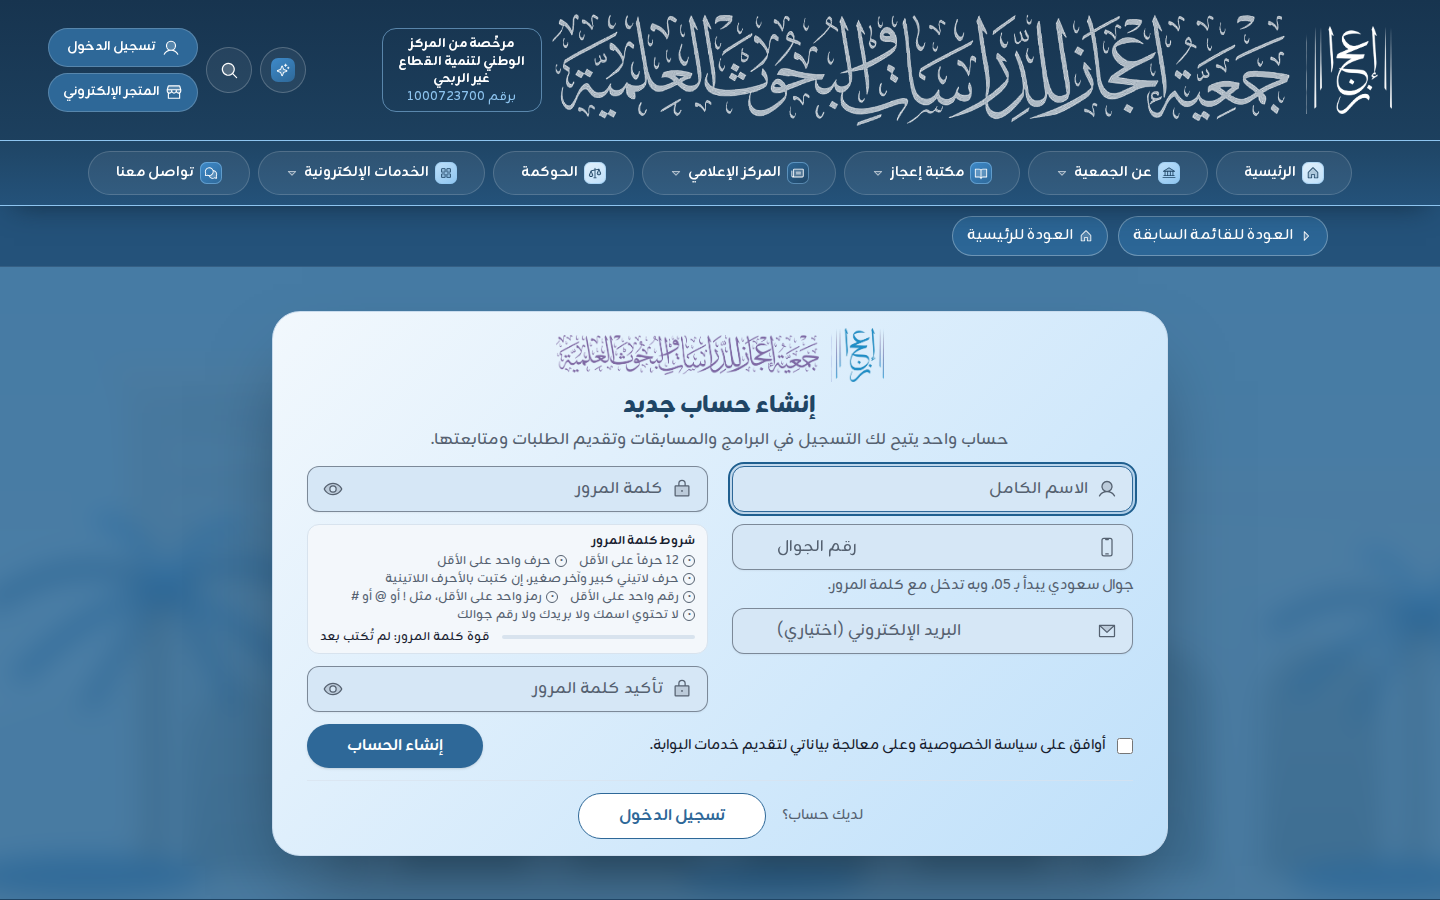
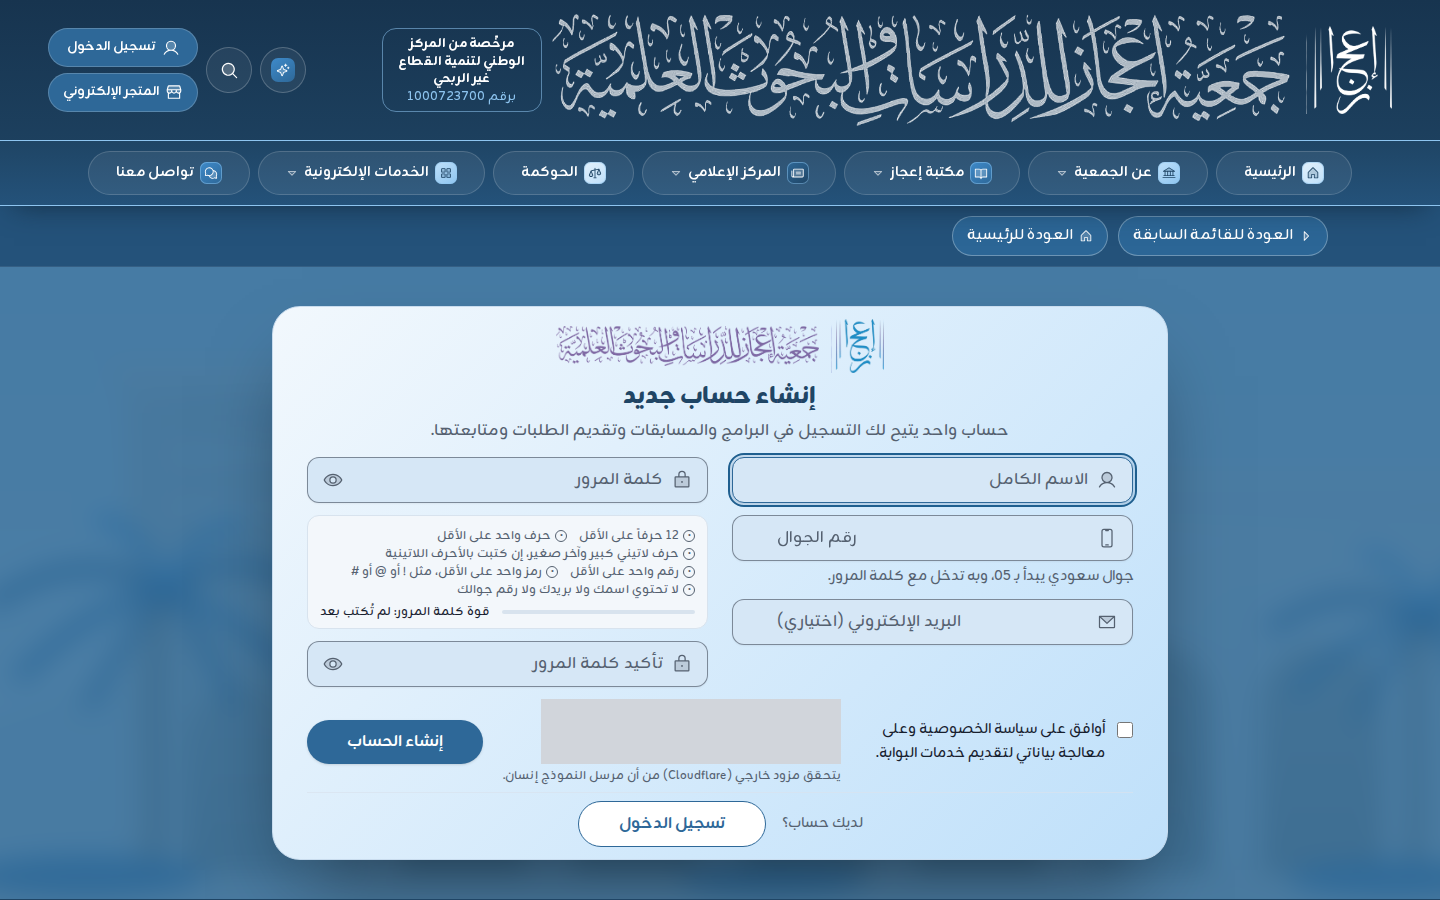
fix(register): measure with the Turnstile widget, kept in the consent and button row
Supervisor review of #189: the bot challenge is always on in production
and added about 90 to 100px. On desktop it now sits in one row with the
privacy consent and the create button. The browser test inserts a stand-
in of its size (300x65 and its notice line) before measuring: the
create button is fully visible in a 1366x657 laptop window, and the
whole card fits at 1366x768. To make room, the rules heading is for
screen readers only in the compact rules (it still names the list), the
intro is for screen readers only in short desktop windows (720px and
under), and the auth card padding is a little tighter. The password
field is also described by the leak note. Login shot at 1366.

Changed region(s): [[0.1875, 0.5911, 0.8125, 0.9644], [0.1875, 0.3422, 0.8125, 0.7156], [0.2188, 0.5289, 0.25, 0.56]]

diff --git a/resources/js/password-rules.js b/resources/js/password-rules.js
@@ -65,7 +65,11 @@ onPage((signal) => {
             return;
         }
 
-        input.setAttribute('aria-describedby', `${input.getAttribute('aria-describedby') ?? ''} ${box.dataset.for}-rules-heading`.trim());
+        // والعنوان وتنبيه التسريب معاً (المشرف على طلب الدمج 189، المنخفضة 3)، ولا يتكرر المعرّف إن أعيدت التهيئة
+        const described = new Set((input.getAttribute('aria-describedby') ?? '').split(/s+/).filter(Boolean));
+        described.add(`${box.dataset.for}-rules-heading`);
+        described.add(`${box.dataset.for}-rules-leaked`);
+        input.setAttribute('aria-describedby', [...described].join(' '));
         const refresh = () => update(box, input);
         input.addEventListener('input', refresh, { signal });
         ['field-name', 'field-email', 'field-phone'].forEach((id) => document.getElementById(id)?.addEventListener('input', refresh, { signal }));

diff --git a/resources/views/components/password-rules.blade.php b/resources/views/components/password-rules.blade.php
@@ -10,14 +10,14 @@
 @endphp
 
 {{-- compact (صفحة التسجيل على الحاسوب، فتدخل بطاقتها كاملة في 1366×768 — المدير عبر المشرف، 5 نوفمبر 2026): الشروط متجاورة بخط أصغر،
-     والمؤشر ونص القوة في سطر واحد، وتنبيه التسريب لقارئ الشاشة ويظهر متى كان التركيز في عمود كلمة المرور (concept.css). النصوص كلها
+     والعنوان لقارئ الشاشة يسمّي القائمة (المشرف على طلب الدمج 189)، والمؤشر ونص القوة في سطر واحد، وتنبيه التسريب لقارئ الشاشة ويظهر متى كان التركيز في عمود كلمة المرور (concept.css). النصوص كلها
      كما هي، فلا ينقص قارئَ الشاشة شيء. وعلى الجوال كما هي --}}
 <div data-password-rules data-for="{{ $for }}" @if ($compact) data-compact @endif
     data-met="{{ __('account.password_rules.met') }}" data-unmet="{{ __('account.password_rules.unmet') }}"
     data-strength-label="{{ __('account.password_rules.strength') }}"
     @foreach (['empty', 'weak', 'fair', 'strong'] as $level) data-level-{{ $level }}="{{ __('account.password_rules.levels.'.$level) }}" @endforeach
     {{ $attributes->merge(['class' => 'rounded-xl border border-line bg-surface p-4 text-sm'.($compact ? ' lg:px-3 lg:py-2 lg:text-xs' : '')]) }}>
-    <p class="font-semibold text-ink" id="{{ $for }}-rules-heading">{{ __('account.password_rules.heading') }}</p>
+    <p @class(['font-semibold text-ink', 'lg:sr-only' => $compact]) id="{{ $for }}-rules-heading">{{ __('account.password_rules.heading') }}</p>
 
     <ul @class(['mt-2 space-y-1.5', 'lg:mt-1 lg:flex lg:flex-wrap lg:gap-x-3 lg:gap-y-0.5 lg:space-y-0' => $compact]) aria-labelledby="{{ $for }}-rules-heading">
         @foreach ($rules as $rule)
@@ -37,5 +37,5 @@
             {{ __('account.password_rules.strength', ['level' => __('account.password_rules.levels.empty')]) }}
         </p>
     </div>
-    <p @class(['mt-1 text-muted', 'lg:mt-0.5' => $compact]) data-leaked>{{ __('account.password_rules.leaked') }}</p>
+    <p id="{{ $for }}-rules-leaked" @class(['mt-1 text-muted', 'lg:mt-0.5' => $compact]) data-leaked>{{ __('account.password_rules.leaked') }}</p>
 </div>

diff --git a/resources/views/auth/register.blade.php b/resources/views/auth/register.blade.php
@@ -30,10 +30,9 @@
             </div>
         </div>
 
-        <x-bot-challenge action="register" />
-
-        {{-- على الحاسوب الموافقة وزر الإنشاء في صف واحد، فتدخل البطاقة كاملة تحت الرأس في 1366×768 (المدير عبر المشرف، 5 نوفمبر 2026) --}}
-        <div class="space-y-4 lg:flex lg:items-center lg:gap-6 lg:space-y-0">
+        {{-- على الحاسوب الموافقة والتحدي (Turnstile، ظاهر في الإنتاج) وزر الإنشاء في صف واحد، فتدخل البطاقة كاملة تحت الرأس في 1366×768
+             والزر في نافذة 1366×657 (المدير والمشرف، 5 و6 نوفمبر 2026 — tests/browser/register-fit.spec.mjs) --}}
+        <div class="space-y-4 lg:flex lg:items-center lg:gap-5 lg:space-y-0" data-register-actions>
             <div class="space-y-1.5 lg:flex-1">
                 <label class="flex items-start gap-3 text-sm leading-6 text-ink">
                     <input type="checkbox" name="privacy" value="1" @checked(old('privacy')) required
@@ -51,6 +50,10 @@
                 @enderror
             </div>
 
+            <div class="space-y-1 lg:shrink-0" data-bot-challenge-slot>
+                <x-bot-challenge action="register" />
+            </div>
+
             <x-button class="w-full lg:w-auto lg:shrink-0 lg:px-10">{{ __('account.register.submit') }}</x-button>
         </div>
     </form>
@@ -58,7 +61,7 @@
     <x-or-divider class="my-5 lg:hidden" />
 
     {{-- على الحاسوب «لديك حساب؟» وزر الدخول في سطر واحد، بخط فاصل بلا «أو» --}}
-    <div class="lg:mt-3 lg:flex lg:items-center lg:justify-center lg:gap-4 lg:border-t lg:border-line/70 lg:pt-3">
+    <div class="lg:mt-2 lg:flex lg:items-center lg:justify-center lg:gap-4 lg:border-t lg:border-line/70 lg:pt-2">
         <p class="mb-3 text-center text-sm text-muted lg:mb-0">{{ __('account.register.have_account') }}</p>
         <x-button variant="outline" :href="route('login')" class="w-full lg:w-auto lg:px-10">{{ __('account.login.title') }}</x-button>
     </div>

diff --git a/resources/views/components/layouts/auth.blade.php b/resources/views/components/layouts/auth.blade.php
@@ -9,19 +9,20 @@
 @props(['title', 'heading' => null, 'intro' => null, 'image' => true, 'noindex' => true, 'wide' => false])
 
 <x-layouts.app :title="$title" :noindex="$noindex">
-    <div class="auth-stage relative isolate overflow-hidden py-12 sm:py-17 lg:py-3">
+    <div class="auth-stage relative isolate overflow-hidden py-12 sm:py-17 lg:py-2">
         <img src="{{ asset('images/placeholders/architecture.svg') }}" alt="" aria-hidden="true" width="1440" height="960"
             class="absolute inset-0 -z-10 size-full scale-110 object-cover blur-md">
         <div class="absolute inset-0 -z-10 bg-primary/85" aria-hidden="true"></div>
 
         <div @class(['relative mx-auto w-full max-w-[28.75rem] px-4', 'lg:max-w-[58rem]' => $wide, 'lg:max-w-[32rem]' => ! $wide])>
             <div class="form-sky overflow-hidden rounded-[1.75rem] text-ink shadow-[0_40px_80px_-30px_rgba(0,0,0,0.55)]" data-auth-card>
-                <div class="px-6 pt-9 pb-8 sm:px-8.5 lg:pt-4 lg:pb-4">
+                <div class="px-6 pt-9 pb-8 sm:px-8.5 lg:pt-3 lg:pb-3">
                     <div class="flex flex-col items-center text-center">
                         <x-brand :link="false" class="justify-center" data-auth-logo />
                         <h1 class="mt-4 text-[2.125rem] font-black text-primary-dark lg:mt-2 lg:text-2xl">{{ $heading ?? $title }}</h1>
                         @if ($intro)
-                            <p class="mt-2 leading-7 text-muted lg:mt-1">{{ $intro }}</p>
+                            {{-- وفي نافذة الحاسوب القصيرة (720 فأقل) لقارئ الشاشة وحده، فيظهر زر الإرسال بلا تمرير (المشرف على طلب الدمج 189) --}}
+                            <p class="mt-2 leading-7 text-muted lg:mt-1 [@media(min-width:64rem)_and_(max-height:45rem)]:sr-only">{{ $intro }}</p>
                         @endif
                     </div>
 

diff --git a/tests/Feature/DirectorNotes/DirectorNotesNov4Test.php b/tests/Feature/DirectorNotes/DirectorNotesNov4Test.php
@@ -141,7 +141,7 @@ it('keeps the login card short on desktop and lays registration in two columns',
     $register = (string) $this->get('/register')->assertOk()->getContent();
 
     // صورة أسفل البطاقة للجوال وحده، ومسافات أقل على الحاسوب (وأقل منها لتدخل بطاقة التسجيل في 1366×768 — register-fit.spec.mjs)
-    expect($login)->toContain('lg:pt-4 lg:pb-4')->toContain('object-cover lg:hidden')
+    expect($login)->toContain('lg:pt-3 lg:pb-3')->toContain('object-cover lg:hidden')
         ->and($register)->toContain('lg:max-w-[58rem]')->toContain('data-register-columns')->toContain('lg:grid-cols-2')
         // الحقول بأسمائها، بلا اسم مستخدم للحساب الجديد (الدخول بالجوال، #180)
         ->and($register)->not->toContain('name="username"')
